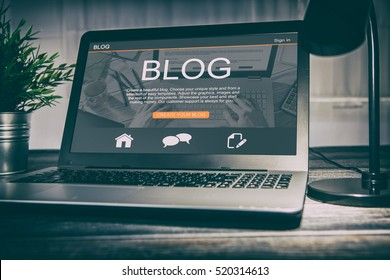
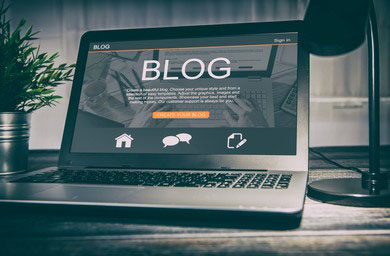
working on it

diff --git a/src/components/Home/Project/Project.js b/src/components/Home/Project/Project.js
@@ -47,7 +47,7 @@ const portfolio = [
 
 const Project = () => {
     return (
-        <section id="projects">
+        <section className="project-section" id="projects">
             <Container maxWidth="lg">
                 <h2 className="text-center">My Portfolio</h2>
                 <Grid container>
@@ -55,7 +55,7 @@ const Project = () => {
                         portfolio.map((item, index) => (
                             <Grid item lg={4} md={6} sm={12} xs={12} key={index}>
                                 <div className="project-container">
-                                    <img src={item.img} alt={item.title} style={{ width: '100%', height: '400px', objectFit: 'contain' }} />
+                                    <img src={item.img} alt={item.title}/>
                                     <h2>{item.title}</h2>
                                     <h3>{item.subtitle}</h3>
                                     <Accordion style={{backgroundColor: '#2A2C39', color: '#fff'}}>

diff --git a/src/components/Home/Banner/Banner.css b/src/components/Home/Banner/Banner.css
@@ -30,10 +30,11 @@
     border: 1px solid  rgb(59, 61, 73);
     border-image: initial;
     color: #fff;
-    font-size: 18px;
+    font-size: 15px;
     cursor: pointer;
     transition: 0.4s;
     margin-bottom: 30px;
+    font-family: 'Poppins','sans-serif';
 }
 
 .resume-button:hover {
@@ -52,9 +53,9 @@
 }
 
 .banner-grid-right img{
-    height: 450px;
     width: 100%;
-    object-fit: contain;
+    height: 600px;
+    object-fit: cover;
 }
 
 @media (max-width: 960px) {

diff --git a/src/components/Home/ContactMe/ContactMe.css b/src/components/Home/ContactMe/ContactMe.css
@@ -1,3 +1,7 @@
+.contact-section {
+    padding-top: 40px;
+    margin-bottom: 80px;
+}
 form {
     width: 100%;
     padding: 10px;
@@ -36,6 +40,11 @@ form {
     cursor: pointer;
     transition: 0.4s;
     margin-bottom: 30px;
+}
+
+.send-message-btn:hover, .send-message-btn:focus {
+    border: 1px solid #fff;
+    background-color: #2E303D;
 }
 
 .form-control:hover, .form-control:focus {

diff --git a/src/components/Home/Banner/Banner.js b/src/components/Home/Banner/Banner.js
@@ -1,7 +1,7 @@
 import { Box, Container, Grid } from '@material-ui/core';
 import React from 'react';
 import './Banner.css'
-import bannerImg from '../../../images/rakib (2).png'
+import bannerImg from '../../../images/rakib-bg-2.png'
 import { FontAwesomeIcon } from '@fortawesome/react-fontawesome'
 import { faDownload } from '@fortawesome/free-solid-svg-icons'
 

diff --git a/src/components/Home/Footer/Footer.css b/src/components/Home/Footer/Footer.css
@@ -1,18 +1,10 @@
 footer {
     background-color: #252734;
-    padding-bottom: 20px;
+    padding: 40px 0;
     border-top: 1px solid  rgb(59, 61, 73);
 }
-footer > div {
-    margin: 50px 0;
-}
+
 footer > div > p {
     text-align: center;
     color: #fff;
-}
-
-@media (max-width: 960px) {
-    footer > div {
-        margin: 50px 0 100px;
-    }
 }

diff --git a/src/components/Home/Project/Project.css b/src/components/Home/Project/Project.css
@@ -1,8 +1,18 @@
+.project-section {
+    padding-top: 40px;
+    margin-bottom: 80px;
+}
 .project-container {
     margin: 20px;
     background-color: #2A2C39;
     color: #fff;
     font-family: 'Poppins', 'sans-serif';
+}
+
+.project-container > img {
+    width: 100%;
+    height: 300px;
+    object-fit: cover;
 }
 
 .project-container > h2 {

diff --git a/src/components/Home/ContactMe/ContactMe.js b/src/components/Home/ContactMe/ContactMe.js
@@ -18,7 +18,7 @@ const ContactMe = () => {
         e.target.reset();
     }
     return (
-        <section id="contact">
+        <section className="contact-section" id="contact">
             <h1 className="text-center">Contact Me</h1>
             <Grid container>
                 <Grid item lg={3} md={3} sm={3} xs={12}>

diff --git a/src/components/Home/Blog/Blog.js b/src/components/Home/Blog/Blog.js
@@ -25,7 +25,7 @@ const blogs = [
 
 const Blog = () => {
     return (
-        <section id="blogs">
+        <section className="blog-section" id="blogs">
             <Container maxWidth="lg">
                 <h2 className="text-center">My Recent Blogs</h2>
                 <Grid container>

diff --git a/src/App.css b/src/App.css
@@ -3,6 +3,8 @@
     color: #fff;
     font-family: 'Poppins', 'sans-serif';
     font-size: 28px;
+    margin-bottom: 30px;
+    position: relative;
 }
 
 .mt-3 {

diff --git a/src/components/Home/Blog/Blog.css b/src/components/Home/Blog/Blog.css
@@ -1,3 +1,7 @@
+.blog-section {
+    padding-top: 40px;
+    margin-bottom: 80px;
+}
 .blog-container {
     margin: 20px 10px;
     background-color: #2A2C39;
